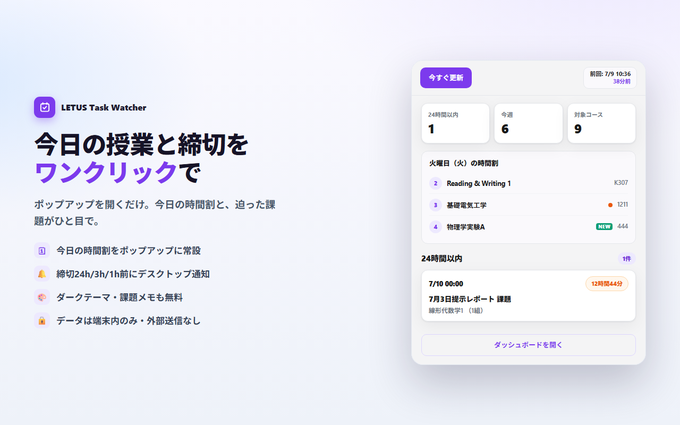
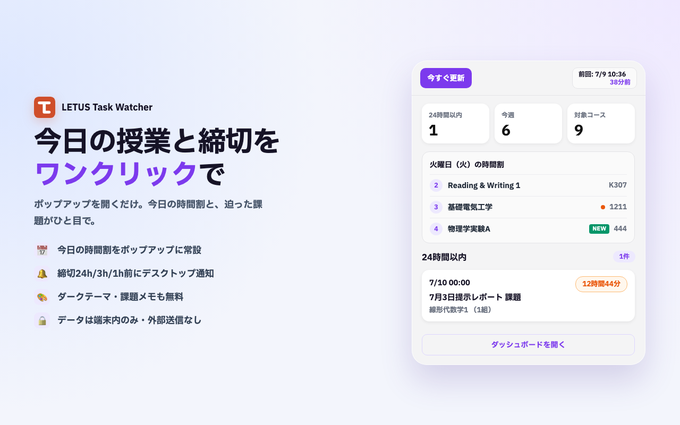
site: LTWカードの紹介画像を現行マーク（足つきT）へ差し替え
旧画像（2026-07-10・生成元なし）は旧アイコン（紫の角丸にカレンダー＋
チェック）で、現行マークと不一致だった。LTW開発ハブが生成元
（lms-task-watcher の store-assets/store-shot3.html）から旧画像を再現し、
マークだけ現行へ替えたものに置換する。?v=2 → ?v=3（キャッシュ更新）。

画像内の4つの訴求はLTWのソースで裏を取った: 通知の既定 1h/3h/24h
（DEFAULT_THRESHOLDS）／ダークテーマ・課題メモ・通知ルールは無料（課金
ゲートは撤去済み）／外部送信なし（自前バックエンドは凍結・manifestの
通信先はLETUSとCLASSのみ）／ポップアップの表示文言はソースに実在。
中身はモックデータで、v1.4.4の実UIとの完全な一致は未検証（7月の再現）。

diff --git a/public/index.html b/public/index.html
@@ -135,7 +135,7 @@
       <h2 id="services-heading">サービス</h2>
       <div class="tools">
         <div class="tool">
-          <span class="tool-shot"><img src="/shots/ltw.png?v=2" width="680" height="425" loading="lazy" decoding="async" alt="LETUS Task Watcher のポップアップ。今日の授業と24時間以内の締切を一覧表示"></span>
+          <span class="tool-shot"><img src="/shots/ltw.png?v=3" width="680" height="425" loading="lazy" decoding="async" alt="LETUS Task Watcher のポップアップ。今日の授業と24時間以内の締切を一覧表示"></span>
           <div class="tool-body">
             <p class="tool-name">LETUS Task Watcher <small>ブラウザ拡張</small> <span class="st">公開中</span></p>
             <p class="tool-does">LETUSの課題期限を集めて締切前に知らせる。CLASSの時間割も出す。</p>
